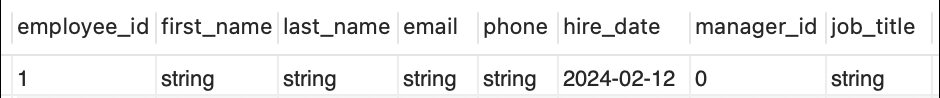
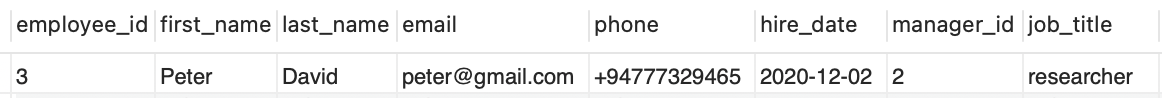
Update more GIFs

diff --git a/swan-lake/resources/featured-scenarios/build-a-data-service-in-ballerina.md b/swan-lake/resources/featured-scenarios/build-a-data-service-in-ballerina.md
@@ -246,6 +246,12 @@ Follow the steps below to create the first resource of the service.
     }
     ```
 
+3. Add the code below to import the `ballerina.sql` package.
+
+    ```ballerina
+    import ballerina/sql;
+    ```
+
 #### Create the second resource
 
 Follow the steps below to create the second resource, which has a path parameter.
@@ -409,9 +415,11 @@ service /employees on new http:Listener(8080) {
 
 Use the [**Run**](/learn/vs-code-extension/run-a-program/) CodeLens of the VS Code extension to build and run the service, as shown below.
 
+>**Note:** Select **Create `Config.toml`** to create the configuration file when prompted and provide the configuration values once it gets created.
+
 ![Run the service](/learn/images/featured-scenarios/build-a-data-service-in-ballerina/run-the-service.gif)
 
->**Info:** Alternatively, you can run this service by navigating to the project root (i.e., `data_service` directory) and executing the `bal run` command. 
+>**Info:** Alternatively, you can run this service by navigating to the project root (i.e., `data-service` directory) and executing the `bal run` command. 
 
 You should see the output similar to the following.
 
@@ -430,7 +438,7 @@ Use the [**Try it**](/learn/vs-code-extension/try-the-services/try-http-services
 
 ```json
 {
-  "employee_id": 1,
+  "employee_id": 3,
   "first_name": "Peter",
   "last_name": "David",
   "email": "peter@gmail.com",
